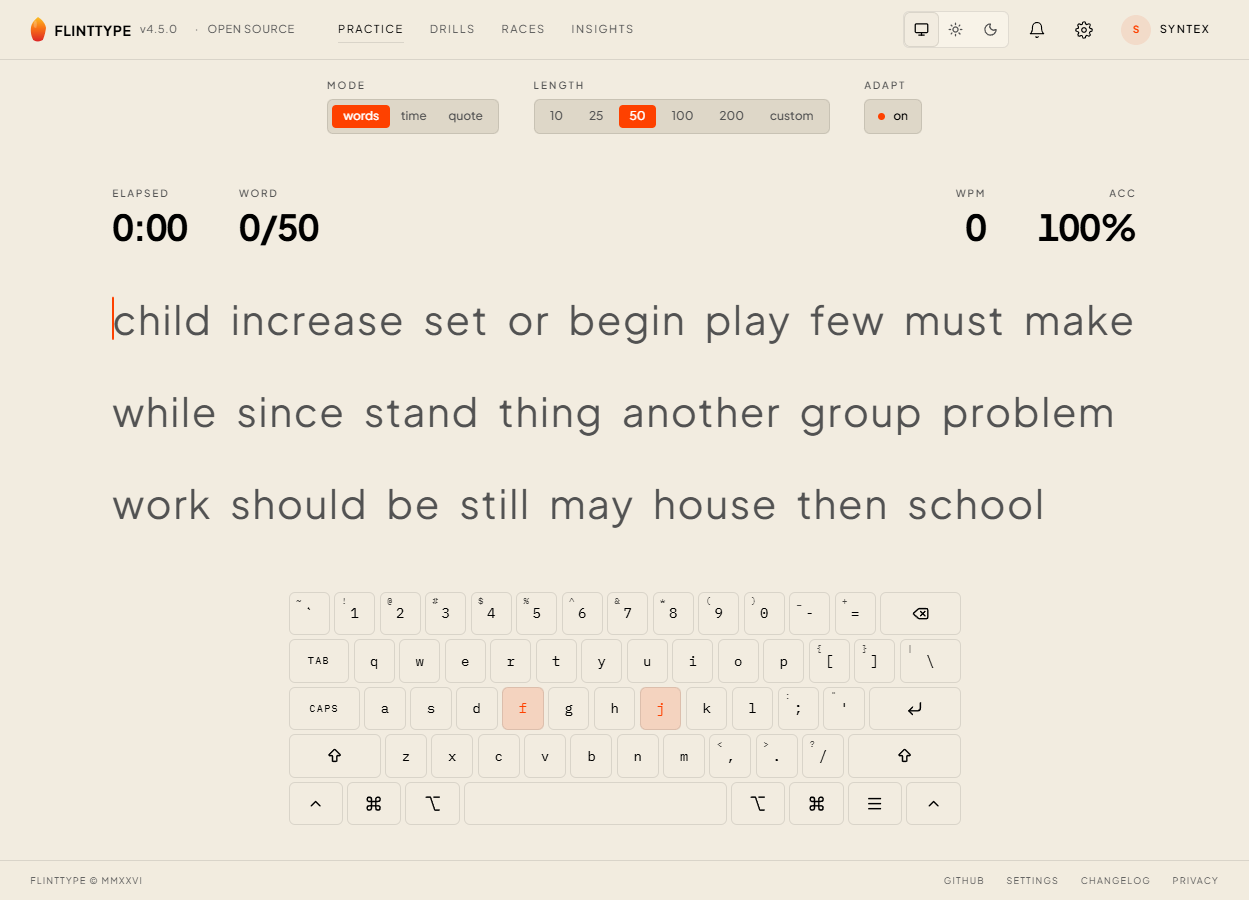
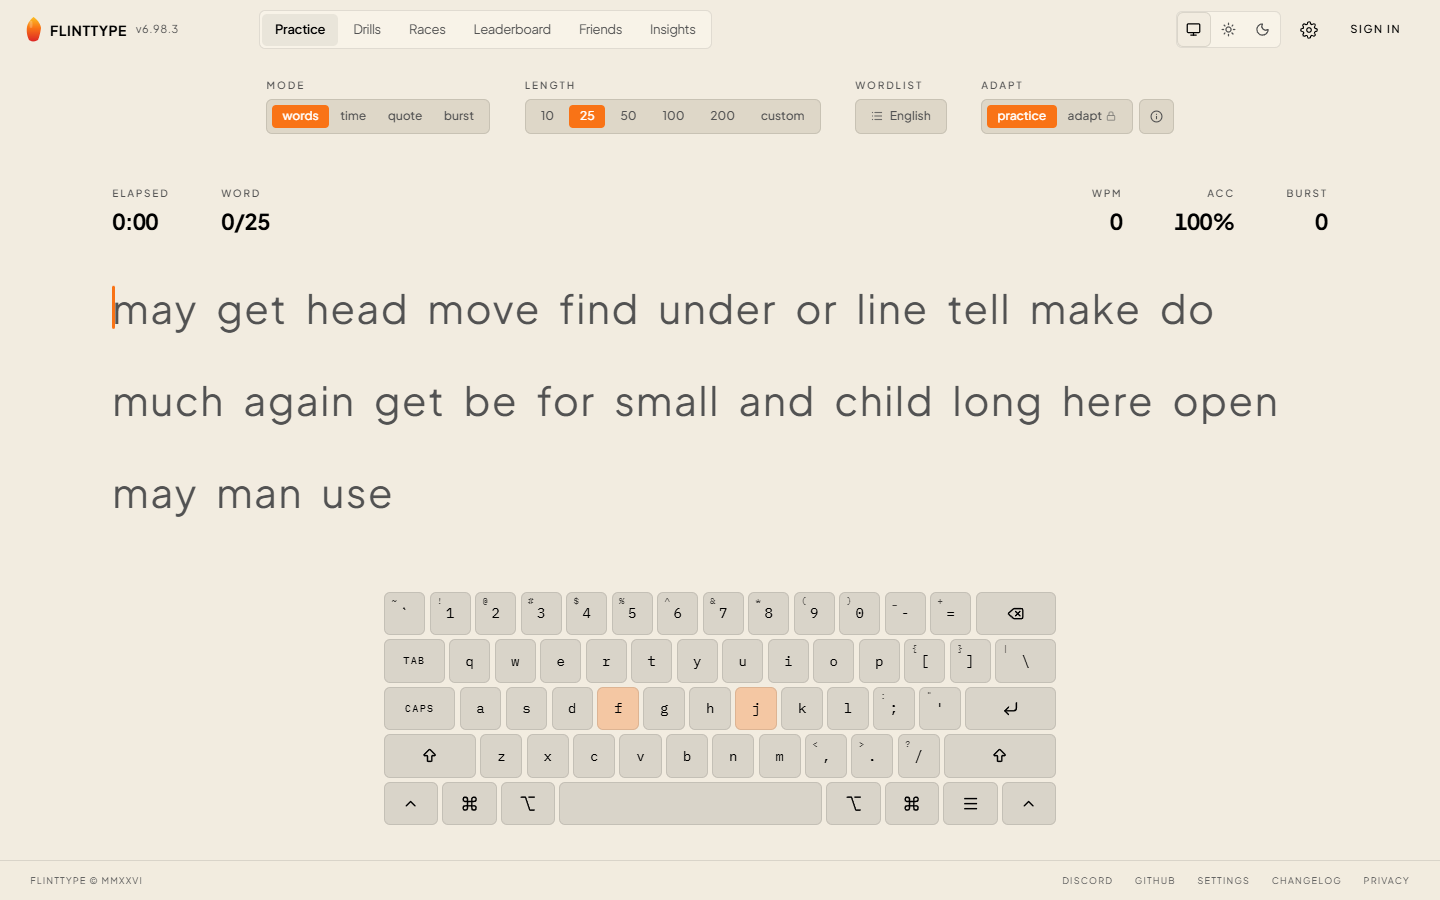
docs(readme): comprehensive rewrite with fresh screenshots
6.100.1

- Rewrite README: highlights, screenshot gallery, in-depth features, project structure tree, and a documentation table covering all seven docs + spec.
- Refresh screenshots at v6.100 (home, results, customise, race, leaderboard, friends dock, dark, mobile); reflect the friends dock replacing the friends page.
- Bump VERSION/package.json; changelog internal line.

diff --git a/README.md b/README.md
@@ -19,25 +19,48 @@
 
 ---
 
-flinttype is a typing speed test in the same product space as Monkeytype and 10fastfingers, with a different aesthetic and architectural bias. JetBrains Mono everywhere, hairline borders, a single coral accent against paper-and-ink. Every visual surface and behaviour is user-customisable; the practice surface can pull adaptive word lists biased toward your own weak spots.
+flinttype is a typing speed test in the same product space as Monkeytype and 10fastfingers, with a different aesthetic and architectural bias. JetBrains Mono everywhere, hairline borders, a single coral accent against paper-and-ink. Every visual surface and behaviour is user-customisable; the practice surface can pull adaptive word lists biased toward your own weak spots; and a typed backend tree means a route added on the server is instantly available and type-checked on the client with no codegen.
 
 <p align="center">
-  <img src="screenshots/home.png" alt="flinttype home — practice surface with live readouts, virtual keyboard, and the editorial paper-and-ink palette" width="900" />
+  <img src="screenshots/home.png" alt="flinttype practice surface — mode bar, live WPM/accuracy/burst readouts, the passage, and the virtual keyboard widget in the editorial paper-and-ink palette" width="900" />
 </p>
 
-## Features
+## Highlights
 
-- **Practice** — Words / Time / Quote modes with custom counts, live WPM/CPM/accuracy/burst readouts (each independently togglable), live virtual keyboard widget in four physical layouts × four logical layouts × five visual designs.
-- **Adaptive mode** — server-side engine scores you against your own bigram/trigram/word/motor-feature models and biases the next word list toward weak spots.
-- **Drills** ([`/drills`](https://flinttype.com/drills)) — burst (rep-based) and sudden-death (any-error-resets) drills over the top-1000 words, trigrams, pangrams, your worst words, your weakest bigrams.
-- **Races** ([`/race`](https://flinttype.com/race)) — 4-player real-time races backed by an in-memory room engine with SSE broadcasts. Public matchmaking with bot fill, or private challenge lobbies via shareable slug.
-- **Profiles, leaderboards, insights** — historical results, per-user analytics, mode/window-scoped global rankings.
-- **MonkeyType import** — pull your existing MonkeyType account via Ape Key; results + stats decrypt client-side before persisting.
-- **Deep customisation** ([`/customise`](https://flinttype.com/customise)) — 11+ palettes, font picker, caret style/thickness/blink/smooth, keymap, chrome density (Editorial / Minimal / Stripped presets), background images, line width, opacity controls. Everything persists as a JSON prefs blob.
+- **A typing test you can actually finish your way** — Words / Time / Quote / Burst modes, custom counts, English or common-words lists.
+- **Adaptive practice** — a server-side engine models your weak bigrams, trigrams, words, and motor features and biases the next passage toward them.
+- **Real-time multiplayer** — up to 8-player races over SSE, with bot fill or private lobbies, plus 1-on-1 duels against a friend's ghost.
+- **A friends dock, not a friends page** — a small corner dock surfaces who's typing live, challenges waiting for you, and everyone you follow, on every screen.
+- **Customisation to the studs** — 11+ palettes, fonts, caret, keymap, chrome density, background images, mistake styles, opacity, line width. Everything persists as a JSON prefs blob.
+- **Boringly solid foundations** — typed route tree, Zod on every wire input, a unit test co-located with every backend module, Drizzle over Neon (prod) / PGlite (dev), Clerk auth.
+
+## Screenshots
+
+|  |  |
+|---|---|
+| <img src="screenshots/results.png" alt="Run report showing 135 WPM with a personal-best crown, 100% accuracy, a WPM-over-time trace chart, and a stat row (raw, peak, average, stall, consistency, errors, time)" /> | <img src="screenshots/customise.png" alt="Customise → Appearance page with the section rail (themes, colors, geometry, caret, typography, keyboard, and more) and a live preview passage" /> |
+| **Run report** — WPM trace, peak / stall / consistency, PB crown, replay & save-image. | **Customise** — every control has its own live preview built from the real test surface. |
+| <img src="screenshots/race.png" alt="Live four-player race with per-racer progress lanes, live WPM, and bot opponents" /> | <img src="screenshots/leaderboard.png" alt="Leaderboard recent runs with a filter rail for view, mode, window, and length, and identity tags beside handles" /> |
+| **Race** — live lanes, per-racer WPM, error markers, bot fill or private lobbies. | **Leaderboard** — global rankings filtered by mode, window, and length. |
+| <img src="screenshots/friends-dock.png" alt="The friends dock expanded into a corner panel showing live broadcasters, pending challenges, and a searchable directory of friends with presence captions" /> | <img src="screenshots/dark.png" alt="The practice surface in dark mode with the warm-ink palette and a dark virtual keyboard" /> |
+| **Friends dock** — live now, pending challenges, and a searchable directory, on every screen. | **Theming** — light / dark plus community palettes, all swapping live. |
 
 <p align="center">
-  <img src="screenshots/race-v52-desktop.png" alt="4-player race screen with live opponent lanes and per-racer WPM" width="900" />
+  <img src="screenshots/mobile.png" alt="flinttype on a phone — collapsed header, the passage, a compact bottom stat strip, and a new-passage button" width="280" />
 </p>
+
+> Profile (skill radar, activity heatmap, level / XP, rank badge), Insights, and Drills are signed-in surfaces — see them live on [flinttype.com](https://flinttype.com).
+
+## Features in depth
+
+- **Practice** — Words / Time / Quote / Burst modes with custom counts; live WPM / CPM / accuracy / burst / error readouts (each independently togglable); a live virtual keyboard in four physical layouts × four logical layouts × five visual designs.
+- **Adaptive mode** — scores you against your own bigram / trigram / word / motor-feature models and biases the next word list toward weak spots.
+- **Drills** ([`/drills`](https://flinttype.com/drills)) — burst (rep-based) and sudden-death (any-error-resets) drills over the top-1000 words, trigrams, pangrams, your worst words, and your weakest bigrams.
+- **Races** ([`/race`](https://flinttype.com/race)) — real-time races backed by an in-memory room engine with SSE broadcasts: public matchmaking with bot fill, free-for-all lobbies for up to 8 real players, word-count or timed formats, and shareable private challenge links. See [`docs/multiplayer.md`](docs/multiplayer.md).
+- **Friends, duels & live spectate** — follow people, and a global **friends dock** surfaces who's broadcasting live, pending challenges, and your directory. Watch a friend type in real time at `/live/<user>`, or challenge them to beat one of your runs (duels).
+- **Profiles, leaderboards, insights** — historical results and per-user analytics, a four-spoke skill radar, an activity heatmap, level / XP, a self-selected rank badge, and mode / window / length-scoped global rankings.
+- **MonkeyType import** — pull your existing MonkeyType account via Ape Key; results decrypt client-side before persisting.
+- **Deep customisation** ([`/customise`](https://flinttype.com/customise)) — 11+ palettes, light / dark, font picker, caret style / thickness / blink / smooth, keymap, chrome density (Editorial / Minimal / Stripped presets), background images, mistake styles, line width, and opacity. A `Cmd/Ctrl+K` command palette flips most settings without leaving the keyboard.
 
 ## Quick start
 
@@ -64,16 +87,16 @@ DATABASE_URL=postgresql://...
 OPENROUTER_API_KEY=sk-or-v1-...
 ```
 
-Full env table: [`docs/backend-rules.md`](docs/backend-rules.md#logging) (logging) · [`docs/auth.md`](docs/auth.md) (Clerk) · [`docs/database.md`](docs/database.md) (Neon / PGlite).
+Full env tables: [`docs/backend-rules.md`](docs/backend-rules.md#logging) (logging) · [`docs/auth.md`](docs/auth.md) (Clerk) · [`docs/database.md`](docs/database.md) (Neon / PGlite) · [`docs/multiplayer.md`](docs/multiplayer.md) (race authority).
 
 ## Scripts
 
 ```bash
 yarn dev               # next dev (http://localhost:3000)
-yarn build             # production build
+yarn build             # apply migrations, then production build
 yarn start             # serve the production build
 yarn lint              # eslint
-yarn test              # vitest run
+yarn test              # vitest run (backend + isomorphic helpers)
 yarn test:watch        # vitest in watch mode
 
 # Database
@@ -85,6 +108,7 @@ yarn db:studio         # drizzle-kit studio (visual table browser)
 # Tooling
 yarn themes:add <url>  # add a tweakcn.com palette
 yarn fonts:download    # pull fonts into public/fonts
+yarn skills:baseline   # recompute the skill-radar average baseline from real data
 ```
 
 ## Stack
@@ -93,6 +117,8 @@ yarn fonts:download    # pull fonts into public/fonts
 |-------------|---------------------------------------------------------------------------------------|
 | Framework   | [Next.js 16](https://nextjs.org) (App Router) + [React 19](https://react.dev)         |
 | Styling     | [Tailwind CSS v4](https://tailwindcss.com) + [shadcn/ui](https://ui.shadcn.com) (`base-nova`) |
+| Motion      | [Framer Motion](https://www.framer.com/motion/) (sparingly — animation is the exception) |
+| Charts      | [Recharts](https://recharts.org) (line-art SVG)                                       |
 | Language    | TypeScript 5 (strict)                                                                 |
 | Validation  | [Zod 4](https://zod.dev) on every wire input                                          |
 | Database    | [Drizzle ORM](https://orm.drizzle.team) → [Neon Postgres](https://neon.tech) (prod) / [PGlite](https://pglite.dev) (dev) |
@@ -102,7 +128,7 @@ yarn fonts:download    # pull fonts into public/fonts
 
 ## Architecture in 30 seconds
 
-The backend is a typed route tree rooted at `src/server/router.ts`. A single catch-all dispatcher at `src/app/api/[...path]/route.ts` resolves the URL path, walks the tree, runs the middleware pipeline (global → namespace → route → `validate` → `handler`), and returns JSON. The frontend consumes it via `useBackend()` — a recursive `Proxy` typed from `typeof router`. Adding a route on the server immediately makes it available and typed on the client with no codegen.
+The backend is a **typed route tree** rooted at `src/server/router.ts`. A single catch-all dispatcher at `src/app/api/[...path]/route.ts` resolves the URL path, walks the tree, runs the middleware pipeline (global → namespace → route → `validate` → `handler`), and returns JSON. The frontend consumes it via `useBackend()` — a recursive `Proxy` typed from `typeof router`. Add a route on the server and it's immediately available and typed on the client, no codegen.
 
 ```
 backend.users.admins.list()
@@ -110,23 +136,53 @@ backend.users.admins.list()
       └─ logging → requireAuth → requireAdmin → validate → handler
 ```
 
-Deep dive: [`docs/backend-rules.md`](docs/backend-rules.md). It's authoritative — read it before adding routes.
+Two data tiers share one Drizzle schema: a **server tier** (Neon in prod, PGlite-Node in dev) reached from handlers via `ctx.db.<repo>.<method>`, and a **client tier** (browser PGlite) reached via `useLocalDb()`. Real-time multiplayer state lives in a single warm Node process (the "race authority"); the rest of the app runs serverless and proxies race writes to it. Deep dives: [`docs/backend-rules.md`](docs/backend-rules.md), [`docs/database.md`](docs/database.md), [`docs/multiplayer.md`](docs/multiplayer.md).
+
+## Project structure
+
+```
+src/
+├─ app/                      # Next.js App Router — pages + route-scoped _components
+│  ├─ api/[...path]/         # the single catch-all backend dispatcher
+│  ├─ _components/           # shared app chrome (TopBar, footer, banners)
+│  ├─ customise/ drills/ race/ leaderboard/ profile/ insights/ duels/ live/ …
+│  ├─ providers.tsx          # global providers, command palette, friends dock
+│  └─ globals.css            # design tokens + theme variables
+├─ components/
+│  ├─ ui/                    # shadcn primitives
+│  ├─ ft/                    # flinttype design-system primitives (Logo, Avatar, UserTag, …)
+│  └─ friends-dock/          # the global friends dock
+├─ server/
+│  ├─ router.ts              # typed route tree root
+│  ├─ routes/                # namespaces — handlers + co-located *.test.ts
+│  ├─ middleware/            # auth, logging, rate-limit
+│  └─ race/                  # in-memory multiplayer authority
+├─ db/
+│  ├─ schema/                # shared Drizzle tables
+│  └─ server/ · client/      # per-tier repositories (+ co-located tests)
+├─ lib/                      # isomorphic helpers (backend client, errors, themes, …)
+└─ types/                    # every domain type + Zod schema (single source of truth)
+docs/                        # the seven authoritative guides (below)
+```
 
 ## Project documentation
 
-| Doc                                                  | Scope                                                          |
-|------------------------------------------------------|----------------------------------------------------------------|
-| [`docs/backend-rules.md`](docs/backend-rules.md)     | Backend architecture, 12 rules, middleware patterns, testing   |
-| [`docs/ui-law.md`](docs/ui-law.md)                   | Design system, colours, spacing, typography, mobile-first      |
-| [`docs/organization.md`](docs/organization.md)       | File length thresholds, where new files go, anti-patterns      |
-| [`docs/seo.md`](docs/seo.md)                         | Page metadata, semantic HTML, `llms.txt`, sitemap              |
-| [`docs/auth.md`](docs/auth.md)                       | Clerk integration, `requireAuth` / `requireAdmin`, testing     |
-| [`docs/database.md`](docs/database.md)               | Drizzle layer, schema, server + client tiers, migrations       |
-| [`specification.md`](specification.md)               | Full product specification — every feature, every surface      |
+The `docs/` directory is authoritative — read the relevant guide before changing code in that area. They're auto-loaded into the agent context via [`CLAUDE.md`](CLAUDE.md).
+
+| Doc                                                  | Scope                                                                 |
+|------------------------------------------------------|-----------------------------------------------------------------------|
+| [`docs/backend-rules.md`](docs/backend-rules.md)     | Backend architecture, the 12 rules, middleware, errors, logging, testing |
+| [`docs/ui-law.md`](docs/ui-law.md)                   | Design system — colours, spacing, typography, mobile-first, primitives, the friends dock |
+| [`docs/organization.md`](docs/organization.md)       | File-length thresholds, where new files go, anti-patterns             |
+| [`docs/seo.md`](docs/seo.md)                         | Page metadata, semantic HTML, `llms.txt`, sitemap                     |
+| [`docs/auth.md`](docs/auth.md)                       | Clerk integration, `requireAuth` / `requireAdmin`, the local user mirror |
+| [`docs/database.md`](docs/database.md)               | Drizzle layer, schema, server + client tiers, migrations              |
+| [`docs/multiplayer.md`](docs/multiplayer.md)         | Race authority split, the shared-secret proxy, live spectate          |
+| [`specification.md`](specification.md)               | Full product specification — every feature, every surface             |
 
 ## Contributing
 
-Contributions of every size are welcome — typo fixes through to whole new drill modes. Start with [**CONTRIBUTING.md**](CONTRIBUTING.md) for the dev loop, code style, commit format, and PR process. Discussions happen in [GitHub Issues](https://github.com/saifkhan2003/flinttype/issues) and [Discussions](https://github.com/saifkhan2003/flinttype/discussions).
+Contributions of every size are welcome — typo fixes through to whole new drill modes. Start with [**CONTRIBUTING.md**](CONTRIBUTING.md) for the dev loop, code style, commit format, and PR process. Two house rules worth knowing up front: every backend module ships with a co-located test in the same commit ([`docs/backend-rules.md`](docs/backend-rules.md) R12), and any new UI pattern is documented in [`docs/ui-law.md`](docs/ui-law.md) *before* it's used. Discussions happen in [GitHub Issues](https://github.com/saifkhan2003/flinttype/issues) and [Discussions](https://github.com/saifkhan2003/flinttype/discussions).
 
 ## License
 

diff --git a/public/CHANGELOG.md b/public/CHANGELOG.md
@@ -8,6 +8,9 @@ User-facing changes to flinttype, newest first — one section per version. Also
 
 ---
 
+## 6.100.1 — 21 May 2026
+- Internal changes only.
+
 ## 6.100.0 — 21 May 2026
 - Friends now live in a small dock in the bottom-right corner instead of a separate page. Open it from anywhere to see who's typing live, the challenges waiting for you, and everyone you follow, then jump straight to watching a friend or taking a challenge.
 - The dock keeps out of your way: it tucks into the corner while you type and hides entirely on the race, live-watch, and duel screens.
